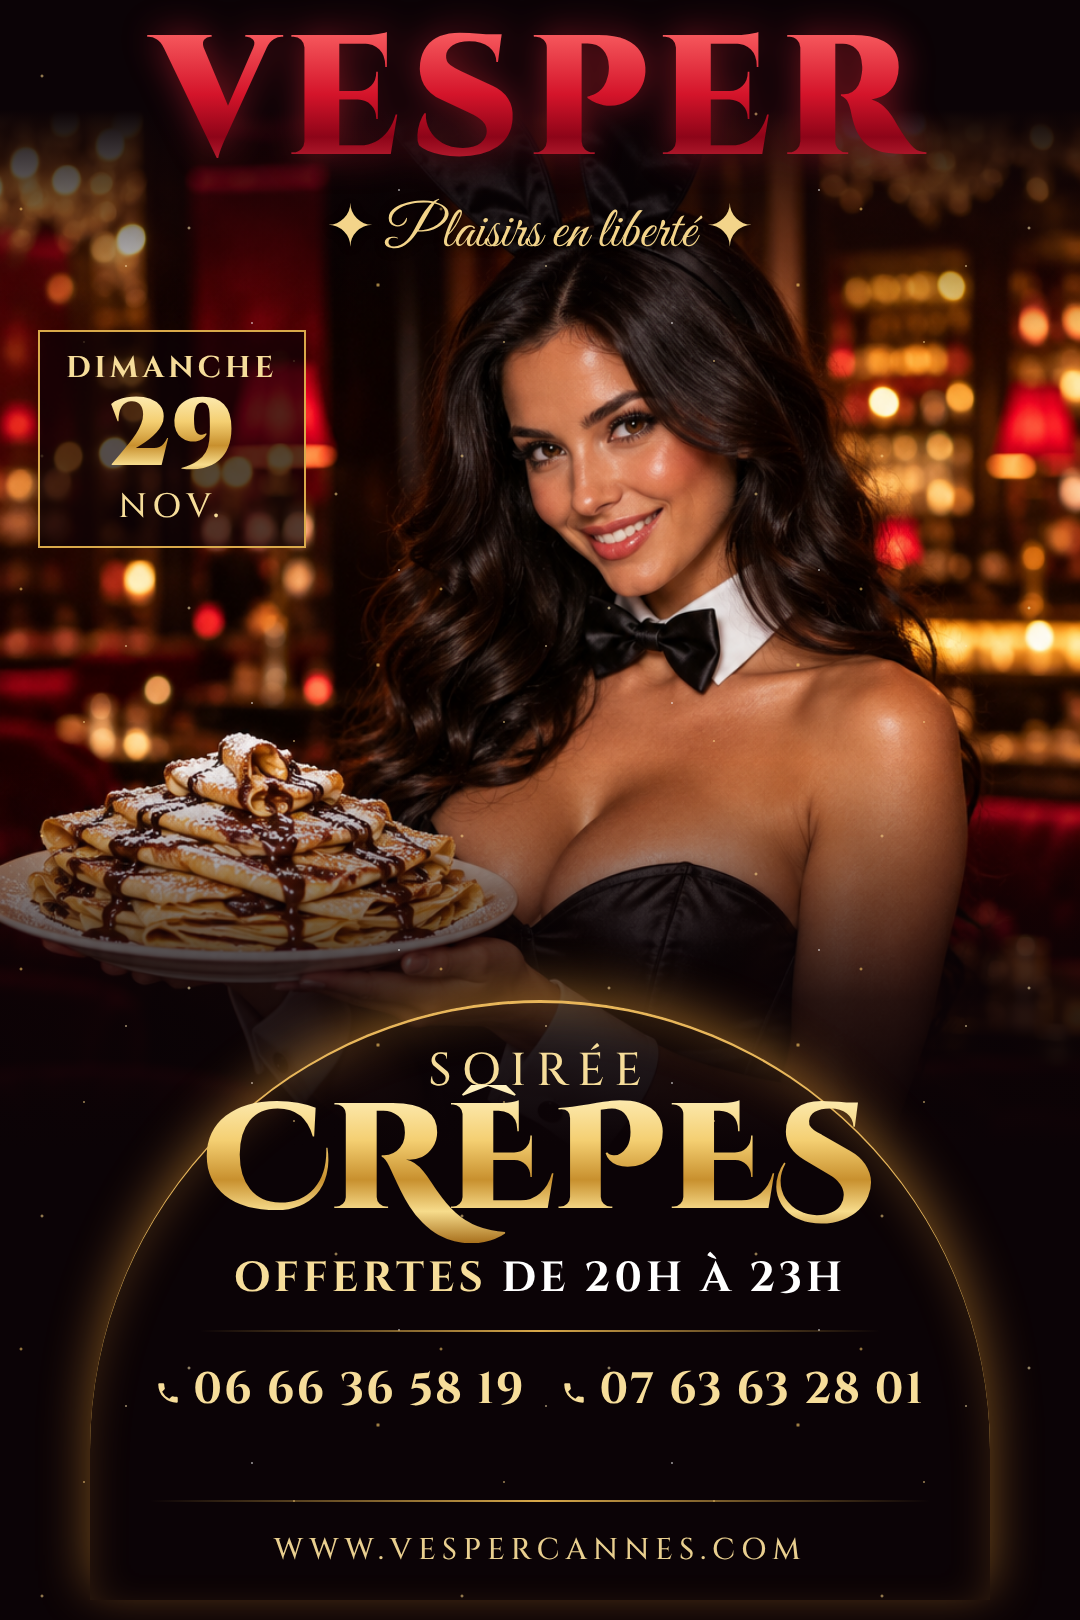
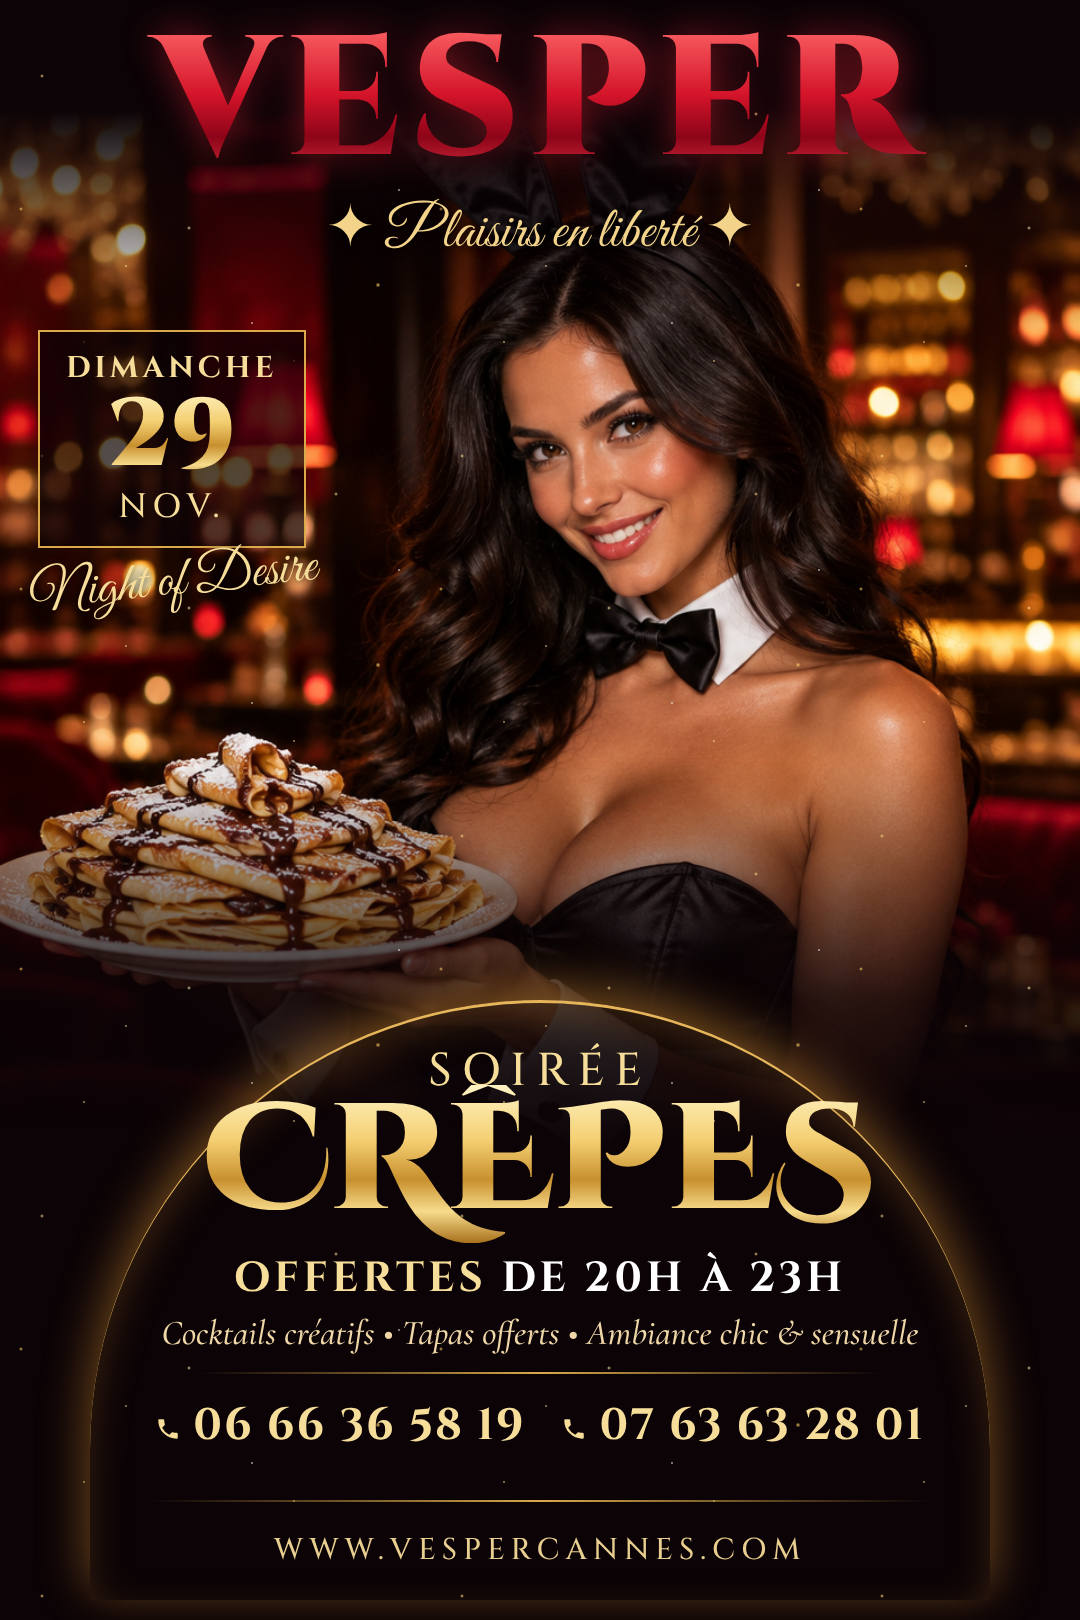
Flyers crêpes Vesper : ajout des infos du flyer du dimanche
Claude-Session: https://claude.ai/code/session_01XtgRhK7sCi8NptSf6F3vuG

Changed region(s): [[0.5194, 0.8025, 0.8556, 0.8951], [0.1528, 0.8025, 0.5194, 0.8951], [0.0306, 0.3395, 0.3056, 0.3704]]

diff --git a/Output/flyers-crepes-vesper/flyers.html b/Output/flyers-crepes-vesper/flyers.html
@@ -37,8 +37,10 @@ body{background:#111;font-family:'Cormorant Garamond',serif}
 #f1 .s2{top:1085px;font-family:'Cinzel Decorative',serif;font-weight:900;font-size:150px;line-height:1.05}
 #f1 .s3{top:1250px;font-family:'Cinzel',serif;font-weight:700;font-size:42px;color:#fff;letter-spacing:4px}
 #f1 .s3 em{font-style:normal;color:#f6dd9a}
-#f1 .r1{position:absolute;left:200px;right:200px;top:1330px}
-#f1 .ph1{top:1360px;font-size:44px}
+#f1 .s4{top:1312px;font-style:italic;font-size:35px;color:#efd7a8}
+#f1 .nod{position:absolute;left:30px;top:548px;font-size:54px;color:#f6dd9a;text-shadow:0 2px 10px #000;transform:rotate(-6deg)}
+#f1 .r1{position:absolute;left:200px;right:200px;top:1372px}
+#f1 .ph1{top:1396px;font-size:44px}
 #f1 .r2{position:absolute;left:150px;right:150px;top:1500px}
 #f1 .site{top:1530px}
 
@@ -100,6 +102,8 @@ body{background:#111;font-family:'Cormorant Garamond',serif}
   <div class="c s1">SOIRÉE</div>
   <div class="c s2 gold">CRÊPES</div>
   <div class="c s3"><em>OFFERTES</em> DE 20H À 23H</div>
+  <div class="c s4">Cocktails créatifs • Tapas offerts • Ambiance chic &amp; sensuelle</div>
+  <div class="nod script">Night of Desire</div>
   <div class="rule r1"></div>
   <div class="c phones ph1"><span class="ph">06 66 36 58 19</span><span class="ph">07 63 63 28 01</span></div>
   <div class="rule r2"></div>
@@ -114,7 +118,7 @@ body{background:#111;font-family:'Cormorant Garamond',serif}
   <div class="c n1 script">Night of Desire</div>
   <div class="c n2 gold">SOIRÉE CRÊPES</div>
   <div class="c n3">DIMANCHE <em>29 NOVEMBRE</em></div>
-  <div class="c n4">Crêpes gourmandes • Cocktails créatifs • Ambiance chic &amp; sensuelle</div>
+  <div class="c n4">Cocktails créatifs • Tapas offerts • Ambiance chic &amp; sensuelle</div>
   <div class="c phones ph2"><span class="ph">06 66 36 58 19</span><span class="ph">07 63 63 28 01</span></div>
   <div class="rule r3"></div>
   <div class="c site">WWW.VESPERCANNES.COM</div>
@@ -128,11 +132,11 @@ body{background:#111;font-family:'Cormorant Garamond',serif}
   <div class="corner k1"></div><div class="corner k2"></div><div class="corner k3"></div><div class="corner k4"></div>
   <div class="c a1 gold">VESPER</div>
   <div class="c a2">CANNES • PLAISIRS EN LIBERTÉ</div>
-  <div class="date3"><b>DIMANCHE</b><i class="gold">29</i><u>NOVEMBRE</u></div>
+  <div class="date3"><b>DIMANCHE</b><i class="gold">29</i><u>NOVEMBRE</u><span class="script" style="display:block;font-size:56px;color:#f6dd9a;margin-top:6px">Night of Desire</span></div>
   <div class="c d1 script gold">Crêpes &amp; Désirs</div>
   <div class="c d2">LA SOIRÉE CRÊPES</div>
   <div class="hours"><b class="gold">OFFERTES • 20H → 23H</b></div>
-  <div class="c d3">Sucrées, flambées, gourmandes… servies avec un sourire</div>
+  <div class="c d3">Cocktails créatifs • Tapas offerts • Ambiance chic &amp; sensuelle</div>
   <div class="c phones ph3"><span class="ph">06 66 36 58 19</span><span class="ph">07 63 63 28 01</span></div>
   <div class="c site">WWW.VESPERCANNES.COM</div>
 </div>
